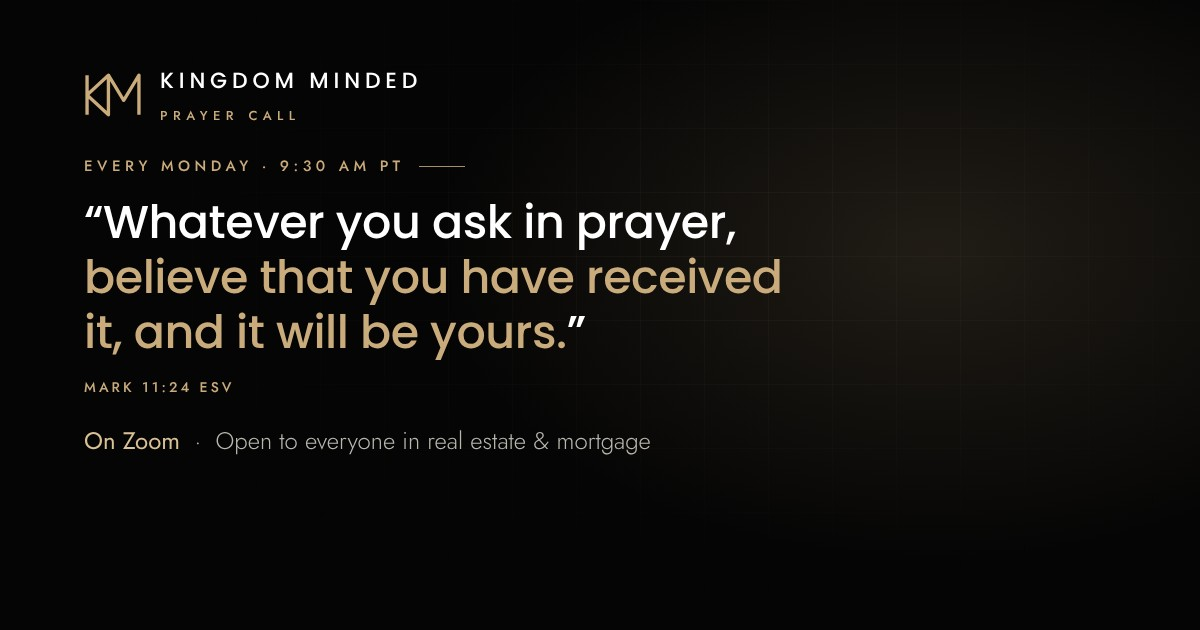
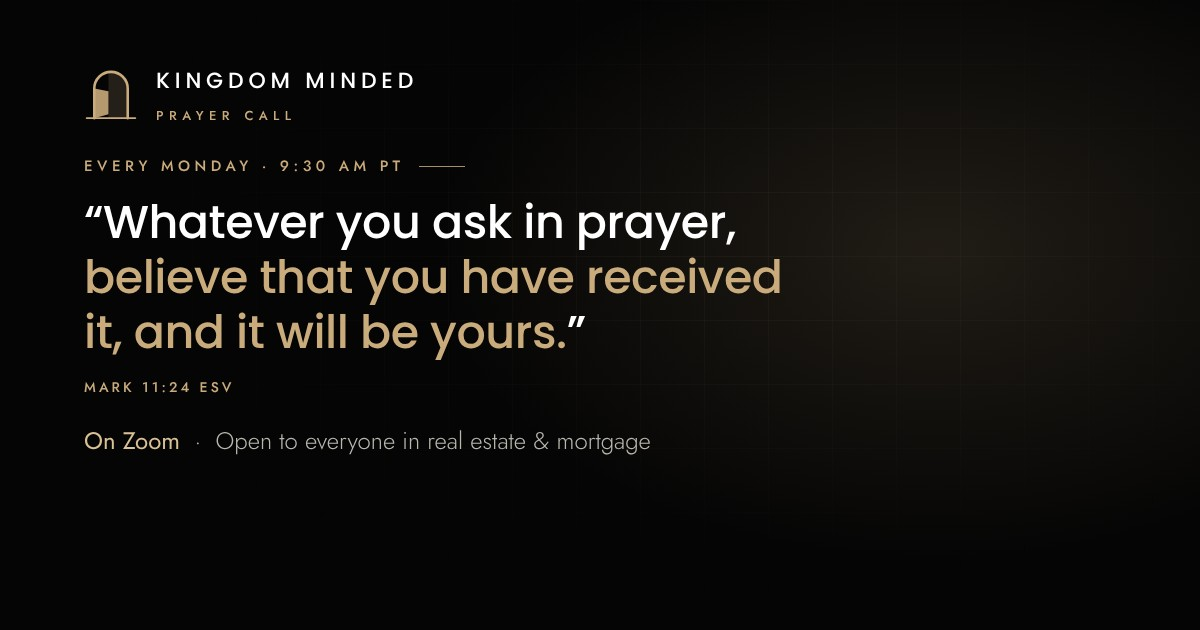
Use the Open Door symbol for the Kingdom Minded Prayer Call
Replaces the KM monogram in the menu and footer, tab icons, and share image.
Removes the temporary logo-ideas review page now that a symbol is chosen.

Claude-Session: https://claude.ai/code/session_014K89563gWLszdZvadxZsab

Changed region(s): [[0.0617, 0.0905, 0.37, 0.2111]]

diff --git a/prayer/index.html b/prayer/index.html
@@ -41,7 +41,7 @@
 <!-- ============================ NAV ============================ -->
 <nav class="nav" id="nav">
   <a href="#top" class="nav-logo km-nav-logo" aria-label="Kingdom Minded Prayer Call">
-    <span class="km-mark"><svg class="km-icon" viewBox="12 20 76 60" fill="none" stroke-width="4.4" stroke-linecap="butt" stroke-linejoin="round" aria-hidden="true"><path d="M16 24V76M16 50L44 24V76ZM44 24L64 57L84 24V76"></path></svg><span class="km-words"><span class="km-name">Kingdom Minded</span><span class="km-sub">Prayer Call</span></span></span>
+    <span class="km-mark"><svg class="km-icon" viewBox="8 12 84 84" aria-hidden="true"><path d="M46 90V18.3A26 26 0 0 1 76 44V90Z" fill="currentColor" opacity=".16"></path><path d="M24 90V44A26 26 0 0 1 76 44V90" fill="none" stroke="currentColor" stroke-width="4" stroke-linecap="round" stroke-linejoin="round"></path><path d="M24 90L46 84V48L24 44Z" fill="currentColor" opacity=".9"></path><path d="M12 90H88" fill="none" stroke="currentColor" stroke-width="2.5" stroke-linecap="round"></path></svg><span class="km-words"><span class="km-name">Kingdom Minded</span><span class="km-sub">Prayer Call</span></span></span>
   </a>
   <div class="nav-links">
     <a href="#invitation">The Invitation</a>
@@ -459,7 +459,7 @@
   <div class="container">
     <div class="footer-top">
       <div class="footer-brand">
-        <span class="km-mark km-mark-lg"><svg class="km-icon" viewBox="12 20 76 60" fill="none" stroke-width="4.4" stroke-linecap="butt" stroke-linejoin="round" aria-hidden="true"><path d="M16 24V76M16 50L44 24V76ZM44 24L64 57L84 24V76"></path></svg><span class="km-words"><span class="km-name">Kingdom Minded</span><span class="km-sub">Prayer Call</span></span></span>
+        <span class="km-mark km-mark-lg"><svg class="km-icon" viewBox="8 12 84 84" aria-hidden="true"><path d="M46 90V18.3A26 26 0 0 1 76 44V90Z" fill="currentColor" opacity=".16"></path><path d="M24 90V44A26 26 0 0 1 76 44V90" fill="none" stroke="currentColor" stroke-width="4" stroke-linecap="round" stroke-linejoin="round"></path><path d="M24 90L46 84V48L24 44Z" fill="currentColor" opacity=".9"></path><path d="M12 90H88" fill="none" stroke="currentColor" stroke-width="2.5" stroke-linecap="round"></path></svg><span class="km-words"><span class="km-name">Kingdom Minded</span><span class="km-sub">Prayer Call</span></span></span>
         <p class="footer-tag">Kingdom-minded professionals in real estate and mortgage, praying together every Monday.</p>
         <div class="footer-host">
           <span>Hosted by</span>

diff --git a/assets/css/prayer.css b/assets/css/prayer.css
@@ -447,10 +447,10 @@
 }
 @media (max-width: 480px) { .prayer-page .nav-right { display: none; } }
 
-/* KM monogram (concept A1), sized to the full height of the two-line wordmark */
-.km-icon { width: 44px; height: 35px; stroke: var(--gold); flex-shrink: 0; }
-.km-mark-lg .km-icon { width: 54px; height: 43px; }
-@media (max-width: 880px) { .km-icon { width: 36px; height: 29px; } }
+/* Open Door symbol, sized to the full height of the two-line wordmark */
+.km-icon { width: 38px; height: 38px; color: var(--gold); flex-shrink: 0; }
+.km-mark-lg .km-icon { width: 48px; height: 48px; }
+@media (max-width: 880px) { .km-icon { width: 32px; height: 32px; } }
 
 /* ---------- Add-to-calendar menu ---------- */
 .cal-pop { position: relative; margin-top: 14px; }
